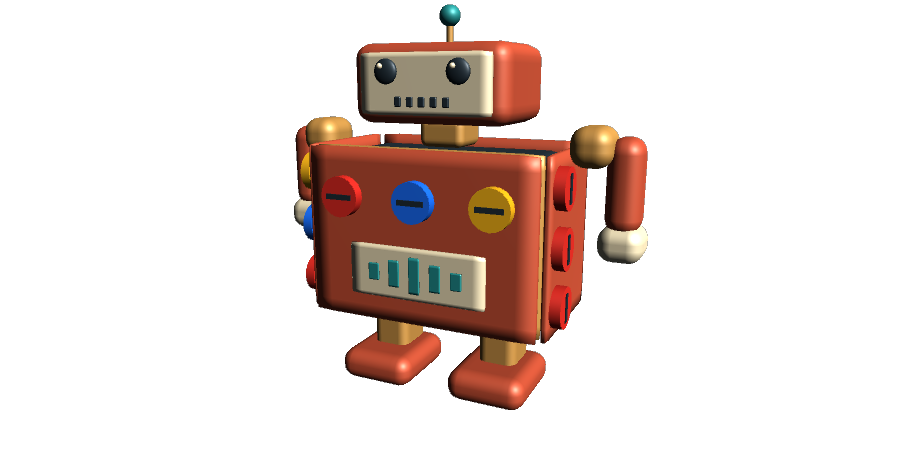
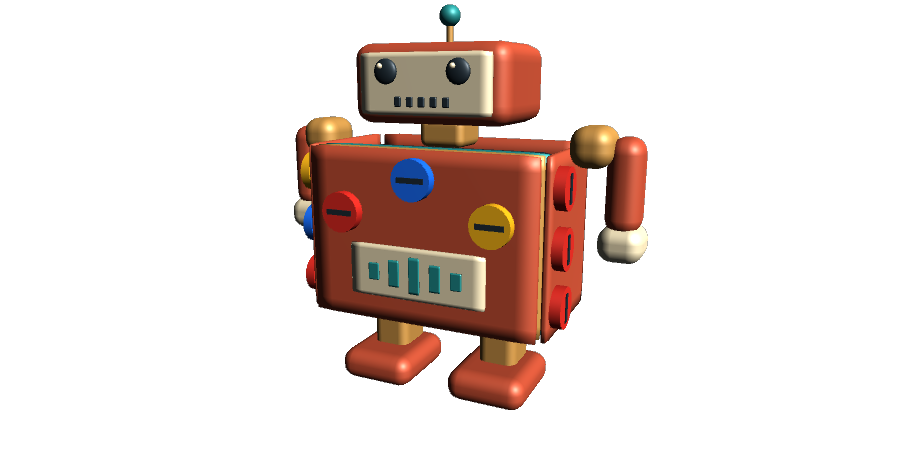
Add tested puzzle variety and deeper robot core layer

Changed region(s): [[0.3733, 0.3111, 0.6222, 0.56], [0.3422, 0.3733, 0.4044, 0.4978]]

diff --git a/Assets/Tests/EditMode/ToyRobot3DTests.cs b/Assets/Tests/EditMode/ToyRobot3DTests.cs
@@ -21,9 +21,11 @@ namespace ScrewPuzzle.Tests
             var input = Object.FindFirstObjectByType<Radio3DInteraction>();
             var puzzle = input.GetComponent<Radio3DPuzzle>();
             Assert.That(Object.FindFirstObjectByType<ToyRobot3DPrototypeBootstrap>(), Is.Not.Null);
-            Assert.That(input.TotalCount, Is.EqualTo(15));
+            Assert.That(input.TotalCount, Is.EqualTo(18));
             Quaternion initial = input.Radio.localRotation;
             var inner = GameObject.Find("Inner 0").GetComponent<Radio3DScrew>();
+            var core = GameObject.Find("Core 0").GetComponent<Radio3DScrew>();
+            Assert.That(puzzle.TryAdd(core), Is.False);
             var nose = GameObject.Find("Right 0").GetComponent<Radio3DScrew>();
             Vector3 noseScale = nose.transform.localScale;
             var targets = Object.FindObjectsByType<Radio3DScrew>(FindObjectsSortMode.None);
@@ -36,34 +38,36 @@ namespace ScrewPuzzle.Tests
                 Assert.That(input.PickScrew(input.View.WorldToScreenPoint(inner.transform.position)), Is.Not.EqualTo(inner));
             }
             foreach (string name in new[] { "Chest 0", "Back 0", "Left 0", "Chest 2", "Back 2", "Left 2",
-                "Chest 1", "Back 1", "Left 1", "Right 0", "Right 1", "Right 2", "Inner 0", "Inner 1", "Inner 2" })
+                "Chest 1", "Back 1", "Left 1", "Right 0", "Right 1", "Right 2", "Inner 0", "Inner 1", "Inner 2", "Core 0", "Core 1", "Core 2" })
             {
-                Vector3 normal = name.StartsWith("Chest") || name.StartsWith("Inner") ? Vector3.back :
+                Vector3 normal = name.StartsWith("Chest") || name.StartsWith("Inner") || name.StartsWith("Core") ? Vector3.back :
                     name.StartsWith("Back") ? Vector3.forward : name.StartsWith("Left") ? Vector3.left : Vector3.right;
                 input.Radio.rotation = Quaternion.FromToRotation(normal, Vector3.back);
                 Physics.SyncTransforms();
                 var screw = GameObject.Find(name).GetComponent<Radio3DScrew>();
                 Vector2 point = input.View.WorldToScreenPoint(screw.transform.position);
-                Assert.That(input.PickScrew(point), Is.EqualTo(screw), name + " must be reachable around the car geometry.");
+                Assert.That(input.PickScrew(point), Is.EqualTo(screw), name + " must be reachable around the robot geometry.");
                 input.BeginPointer(point);
                 input.EndPointer(point);
                 Assert.That(screw.IsRemoved, Is.True);
                 float deadline = Time.realtimeSinceStartup + 5f;
                 while (puzzle.IsBusy && Time.realtimeSinceStartup < deadline) yield return null;
                 Assert.That(puzzle.IsBusy, Is.False);
-                Assert.That(ThreeDBoardProgress.IsCompleted(ThreeDBoardProgress.ToyRobot), Is.EqualTo(name == "Inner 2"));
+                Assert.That(ThreeDBoardProgress.IsCompleted(ThreeDBoardProgress.ToyRobot), Is.EqualTo(name == "Core 2"));
                 Assert.That(puzzle.Trays[2].IsOpen, Is.False);
-                if (name == "Chest 1") Assert.That(inner.IsAccessible, Is.True);
+                if (name == "Chest 1") { Assert.That(inner.IsAccessible, Is.True); Assert.That(core.IsAccessible, Is.False); }
+                if (name == "Inner 2") { Assert.That(core.IsAccessible, Is.True); Assert.That(puzzle.State, Is.EqualTo(Radio3DPuzzle.PuzzleState.Playing)); }
                 if (name == "Right 2") Assert.That(puzzle.State, Is.EqualTo(Radio3DPuzzle.PuzzleState.Playing));
             }
             Assert.That(puzzle.State, Is.EqualTo(Radio3DPuzzle.PuzzleState.Won));
-            Assert.That(puzzle.ClearedCount, Is.EqualTo(15));
-            Assert.That(puzzle.ReleasedPlateCount, Is.EqualTo(5));
+            Assert.That(puzzle.ClearedCount, Is.EqualTo(18));
+            Assert.That(puzzle.ReleasedPlateCount, Is.EqualTo(6));
             input.ResetExperiment();
             Assert.That(input.Radio.localRotation, Is.EqualTo(initial));
             Assert.That(puzzle.RemovedCount, Is.Zero);
             Assert.That(puzzle.ReleasedPlateCount, Is.Zero);
             Assert.That(inner.IsAccessible, Is.False);
+            Assert.That(core.IsAccessible, Is.False);
             Assert.That(ThreeDBoardProgress.IsCompleted(ThreeDBoardProgress.ToyRobot), Is.True, "Restart must preserve completion.");
             Assert.That(nose.transform.localScale, Is.EqualTo(noseScale));
             foreach (var screw in targets)
@@ -76,6 +80,40 @@ namespace ScrewPuzzle.Tests
             yield return null;
             Assert.That(GameObject.Find("Toy Robot Completed"), Is.Not.Null);
             Assert.That(GameObject.Find("Start Toy Robot").GetComponentInChildren<UnityEngine.UI.Text>().text, Does.StartWith("REPLAY"));
+        }
+
+        [UnityTest]
+        public IEnumerator Restart_DuringInnerRelease_RelocksCoreAndRestoresQueue()
+        {
+            EditorSceneManager.OpenScene(ThreeDBoardNavigation.ToyRobot);
+            yield return new EnterPlayMode(); yield return null;
+            var input = Object.FindFirstObjectByType<Radio3DInteraction>();
+            var puzzle = input.GetComponent<Radio3DPuzzle>();
+            var innerPlate = GameObject.Find("Inner Assembly").GetComponent<Radio3DPlate>();
+            var core = GameObject.Find("Core 0").GetComponent<Radio3DScrew>();
+            foreach (string name in new[] { "Chest 0", "Back 0", "Left 0", "Chest 2", "Back 2", "Left 2", "Chest 1", "Back 1", "Left 1", "Right 0", "Right 1", "Right 2", "Inner 0", "Inner 1" })
+            {
+                Assert.That(puzzle.TryAdd(GameObject.Find(name).GetComponent<Radio3DScrew>()), Is.True);
+                float deadline = Time.realtimeSinceStartup + 8;
+                while (puzzle.IsBusy && Time.realtimeSinceStartup < deadline) yield return null;
+                Assert.That(puzzle.IsBusy, Is.False);
+            }
+            Assert.That(puzzle.TryAdd(GameObject.Find("Inner 2").GetComponent<Radio3DScrew>()), Is.True);
+            float releaseDeadline = Time.realtimeSinceStartup + 8;
+            while (!innerPlate.IsAnimating && Time.realtimeSinceStartup < releaseDeadline) yield return null;
+            Assert.That(innerPlate.IsAnimating, Is.True);
+            Assert.That(core.IsAccessible, Is.False);
+            input.ResetExperiment();
+            yield return null;
+            Assert.That(core.IsAccessible, Is.False);
+            Assert.That(innerPlate.IsReleased, Is.False);
+            Assert.That(innerPlate.gameObject.activeSelf, Is.True);
+            Assert.That(puzzle.RemovedCount, Is.Zero);
+            Assert.That(puzzle.TotalPlateCount, Is.EqualTo(6));
+            Assert.That(puzzle.Trays[0].Color, Is.EqualTo(ScrewColorId.Red));
+            Assert.That(puzzle.Trays[1].Color, Is.EqualTo(ScrewColorId.Blue));
+            foreach (var screw in Object.FindObjectsByType<Radio3DScrew>(FindObjectsSortMode.None))
+                Assert.That(screw.IsRemoved, Is.False);
         }
 
         [UnityTearDown]

diff --git a/Assets/Scripts/Prototype/ToyRobot3DPrototypeBootstrap.cs b/Assets/Scripts/Prototype/ToyRobot3DPrototypeBootstrap.cs
@@ -7,6 +7,7 @@ namespace ScrewPuzzle
     {
         protected override string BoardTitle => "THE TOY ROBOT WORKSHOP";
         protected override string BoardId => ThreeDBoardProgress.ToyRobot;
+        protected override ScrewColorId[] TraySequence => new[] { ScrewColorId.Red, ScrewColorId.Blue, ScrewColorId.Yellow, ScrewColorId.Red, ScrewColorId.Blue, ScrewColorId.Yellow };
         protected override float ModelVerticalOffset => 110f;
         protected override string WinTitle => "TOY ROBOT CLEARED!";
 
@@ -18,7 +19,7 @@ namespace ScrewPuzzle
             Material dark = Material(new Color(0.08f, 0.13f, 0.16f));
             Material brass = Material(new Color(0.78f, 0.54f, 0.22f));
             Material teal = Material(new Color(0.08f, 0.52f, 0.5f));
-            RoundedBody("Robot Chassis", radio, Vector3.zero, new Vector3(2.35f, 1.65f, 1.05f), 0.12f, dark);
+            RoundedBody("Robot Chassis", radio, Vector3.zero, new Vector3(2.35f, 1.65f, 0.65f), 0.12f, dark);
             RoundedBody("Neck", radio, new Vector3(0, 1.02f, 0), new Vector3(0.5f, 0.3f, 0.5f), 0.08f, brass);
             RoundedBody("Robot Head", radio, new Vector3(0, 1.52f, 0), new Vector3(1.7f, 0.8f, 1.15f), 0.16f, coral);
             RoundedBody("Face", radio, new Vector3(0, 1.52f, -0.59f), new Vector3(1.42f, 0.61f, 0.08f), 0.035f, cream);
@@ -36,39 +37,40 @@ namespace ScrewPuzzle
                 RoundedBody("Smile Grille", radio, new Vector3(i * 0.13f, 1.35f, -0.66f), new Vector3(0.07f, 0.10f, 0.03f), 0.014f, dark);
             Shape("Antenna", PrimitiveType.Cylinder, radio, new Vector3(0, 2.03f, 0), new Vector3(0.07f, 0.15f, 0.07f), brass);
             Shape("Antenna Tip", PrimitiveType.Sphere, radio, new Vector3(0, 2.2f, 0), Vector3.one * 0.22f, teal);
-            plates = new Radio3DPlate[5];
-            string[] names = { "Chest", "Back", "Left", "Right", "Inner" };
-            Vector3[] normals = { Vector3.back, Vector3.forward, Vector3.left, Vector3.right, Vector3.back };
-            for (int face = 0; face < 5; face++)
+            plates = new Radio3DPlate[6];
+            string[] names = { "Chest", "Back", "Left", "Right", "Inner", "Core" };
+            Vector3[] normals = { Vector3.back, Vector3.forward, Vector3.left, Vector3.right, Vector3.back, Vector3.back };
+            for (int face = 0; face < plates.Length; face++)
             {
                 plates[face] = new GameObject(names[face] + " Assembly").AddComponent<Radio3DPlate>();
                 plates[face].transform.SetParent(radio, false);
                 Vector3 pos = face == 0 ? new Vector3(0, 0, -0.75f) : face == 1 ? new Vector3(0, 0, 0.75f) :
-                    face == 2 ? new Vector3(-1.3f, 0, 0) : face == 3 ? new Vector3(1.3f, 0, 0) : new Vector3(0, 0, -0.62f);
+                    face == 2 ? new Vector3(-1.3f, 0, 0) : face == 3 ? new Vector3(1.3f, 0, 0) : new Vector3(0, 0, face == 4 ? -0.62f : -0.48f);
                 RoundedBody(names[face] + " Panel", plates[face].transform, pos,
-                    face == 2 || face == 3 ? new Vector3(0.08f, 1.8f, 1.4f) : new Vector3(2.5f, 1.8f, 0.08f), 0.035f, face == 4 ? brass : coral);
+                    face == 2 || face == 3 ? new Vector3(0.08f, 1.8f, 1.4f) : new Vector3(2.5f, 1.8f, 0.08f), 0.035f, face == 5 ? teal : face == 4 ? brass : coral);
             }
             RoundedBody("Chest Display", plates[0].transform, new Vector3(0, -0.35f, -0.81f), new Vector3(1.5f, 0.55f, 0.06f), 0.025f, cream);
             for (int i = -2; i <= 2; i++)
                 RoundedBody("Display Bar", plates[0].transform, new Vector3(i * 0.23f, -0.35f, -0.855f), new Vector3(0.12f, 0.18f + (2 - Mathf.Abs(i)) * 0.1f, 0.025f), 0.012f, teal);
-            RoundedBody("Inner Motor", radio, new Vector3(0, -0.25f, -0.55f), new Vector3(1.6f, 0.7f, 0.05f), 0.02f, teal);
+            RoundedBody("Core Badge", plates[5].transform, new Vector3(0, -0.4f, -0.535f), new Vector3(1.1f, 0.25f, 0.02f), 0.009f, cream);
+            RoundedBody("Inner Motor", radio, new Vector3(0, -0.25f, -0.35f), new Vector3(1.6f, 0.7f, 0.05f), 0.02f, teal);
             for (int i = -1; i <= 1; i++)
             {
-                Transform gear = Shape("Motor Gear", PrimitiveType.Cylinder, radio, new Vector3(i * 0.52f, -0.25f, -0.59f), new Vector3(0.38f, 0.025f, 0.38f), brass);
+                Transform gear = Shape("Motor Gear", PrimitiveType.Cylinder, radio, new Vector3(i * 0.52f, -0.25f, -0.39f), new Vector3(0.38f, 0.025f, 0.38f), brass);
                 gear.localRotation = Quaternion.Euler(90, 0, 0);
             }
             Material[] colors = { Material(new Color(0.9f, 0.12f, 0.08f)), Material(new Color(0.05f, 0.4f, 0.95f)), Material(new Color(1f, 0.7f, 0.04f)) };
             screws = new List<Radio3DScrew>();
-            for (int face = 0; face < 5; face++)
+            for (int face = 0; face < plates.Length; face++)
             {
                 var fasteners = new Radio3DScrew[3];
                 for (int i = 0; i < 3; i++)
                 {
-                    int color = face == 3 ? 0 : face == 4 ? 1 : i;
-                    Vector3 pos = face < 2 ? new Vector3((i - 1) * 0.82f, 0.4f, face == 0 ? -0.86f : 0.86f) :
-                        face < 4 ? new Vector3(face == 2 ? -1.40f : 1.40f, (i - 1) * 0.58f, -0.48f) : new Vector3((i - 1) * 0.82f, 0.4f, -0.69f);
+                    int color = face == 3 ? 0 : face == 4 ? 1 : face == 5 ? 2 : i;
+                    Vector3 pos = face < 2 ? new Vector3((i - 1) * 0.82f, i == 1 ? 0.62f : 0.24f, face == 0 ? -0.86f : 0.86f) :
+                        face < 4 ? new Vector3(face == 2 ? -1.40f : 1.40f, (i - 1) * 0.58f, -0.48f) : new Vector3((i - 1) * 0.82f, i == 1 ? 0.50f : 0.1f, face == 4 ? -0.69f : -0.55f);
                     fasteners[i] = Screw(names[face] + " " + i, radio, pos, normals[face], colors[color], dark);
-                    fasteners[i].Initialize((ScrewColorId)color, face == 4 ? plates[0] : null);
+                    fasteners[i].Initialize((ScrewColorId)color, face == 5 ? plates[4] : face == 4 ? plates[0] : null);
                     screws.Add(fasteners[i]);
                 }
                 plates[face].Configure(fasteners, normals[face]);

diff --git a/Assets/Scripts/Prototype/Radio3DPuzzle.cs b/Assets/Scripts/Prototype/Radio3DPuzzle.cs
@@ -31,6 +31,7 @@ namespace ScrewPuzzle
         private Radio3DScrew[] screws;
         private Radio3DPlate[] plates;
         private Radio3DFeedback feedback;
+        private ScrewColorId[] traySequence;
         public int TotalPlateCount { get { return plates.Length; } }
         public int ReleasedPlateCount
         {
@@ -42,11 +43,12 @@ namespace ScrewPuzzle
             }
         }
 
-        public void Configure(Camera camera, Radio3DScrew[] targets, Radio3DPlate[] panels)
+        public void Configure(Camera camera, Radio3DScrew[] targets, Radio3DPlate[] panels, ScrewColorId[] sequence = null)
         {
             view = camera;
             screws = targets;
             plates = panels;
+            traySequence = sequence == null ? new[] { ScrewColorId.Red, ScrewColorId.Blue, ScrewColorId.Yellow, ScrewColorId.Red, ScrewColorId.Blue } : (ScrewColorId[])sequence.Clone();
             feedback = gameObject.AddComponent<Radio3DFeedback>();
             Restart();
         }
@@ -145,12 +147,7 @@ namespace ScrewPuzzle
             StopAllCoroutines();
             if (feedback != null) feedback.Stop();
             jobs.Clear();
-            // Outer colors first, followed by the inner blue set; bonus trays remain optional.
-            jobs.Enqueue(ScrewColorId.Red);
-            jobs.Enqueue(ScrewColorId.Blue);
-            jobs.Enqueue(ScrewColorId.Yellow);
-            jobs.Enqueue(ScrewColorId.Red);
-            jobs.Enqueue(ScrewColorId.Blue);
+            foreach (ScrewColorId color in traySequence) jobs.Enqueue(color);
             for (int i = 0; i < Trays.Length; i++)
             {
                 Trays[i].IsOpen = i < 2;

diff --git a/Assets/Tests/EditMode/WorkshopCompletionTests.cs b/Assets/Tests/EditMode/WorkshopCompletionTests.cs
@@ -56,10 +56,12 @@ namespace ScrewPuzzle.Tests
                 scene == ThreeDBoardNavigation.ToyCar ? new[] { "Near", "Far", "Rear", "Nose", "Inner" } : new[] { "Chest", "Back", "Left", "Right", "Inner" };
             foreach (int color in new[] { 0, 2, 1 })
                 for (int face = 0; face < 3; face++)
-                    yield return Take(faces[face] + " " + color, puzzle);
+                    yield return Take(faces[face] + " " + (scene == ThreeDBoardNavigation.ToyCar ? (color - face + 3) % 3 : color), puzzle);
             for (int face = 3; face < 5; face++)
                 for (int screw = 0; screw < 3; screw++)
                     yield return Take(faces[face] + " " + screw, puzzle);
+            if (scene == ThreeDBoardNavigation.ToyRobot)
+                for (int screw = 0; screw < 3; screw++) yield return Take("Core " + screw, puzzle);
             Assert.That(puzzle.State, Is.EqualTo(Radio3DPuzzle.PuzzleState.Won));
         }
         private static IEnumerator Take(string name, Radio3DPuzzle puzzle)

diff --git a/Assets/Scripts/Prototype/Radio3DPrototypeBootstrap.cs b/Assets/Scripts/Prototype/Radio3DPrototypeBootstrap.cs
@@ -42,7 +42,7 @@ namespace ScrewPuzzle
 
             BuildModel(out Transform radio, out List<Radio3DScrew> screws, out Radio3DPlate[] plates);
             puzzle = gameObject.AddComponent<Radio3DPuzzle>();
-            puzzle.Configure(camera, screws.ToArray(), plates);
+            puzzle.Configure(camera, screws.ToArray(), plates, TraySequence);
             puzzle.Completed += () => ThreeDBoardProgress.MarkCompleted(BoardId);
             interaction = gameObject.AddComponent<Radio3DInteraction>();
             interaction.Configure(camera, radio, screws.ToArray());
@@ -53,6 +53,7 @@ namespace ScrewPuzzle
 
         protected virtual string BoardTitle => "THE RADIO WORKSHOP";
         protected virtual string BoardId => ThreeDBoardProgress.Radio;
+        protected virtual ScrewColorId[] TraySequence => null;
         protected virtual float ModelVerticalOffset => 180f;
         protected virtual string WinTitle => "RADIO CLEARED!";
 

diff --git a/Assets/Tests/EditMode/ToyCar3DTests.cs b/Assets/Tests/EditMode/ToyCar3DTests.cs
@@ -33,8 +33,8 @@ namespace ScrewPuzzle.Tests
                 Physics.SyncTransforms();
                 Assert.That(input.PickScrew(input.View.WorldToScreenPoint(inner.transform.position)), Is.Not.EqualTo(inner));
             }
-            foreach (string name in new[] { "Near 0", "Far 0", "Rear 0", "Near 2", "Far 2", "Rear 2",
-                "Near 1", "Far 1", "Rear 1", "Nose 0", "Nose 1", "Nose 2", "Inner 0", "Inner 1", "Inner 2" })
+            foreach (string name in new[] { "Near 0", "Far 2", "Rear 1", "Near 2", "Far 1", "Rear 0",
+                "Near 1", "Far 0", "Rear 2", "Nose 0", "Nose 1", "Nose 2", "Inner 0", "Inner 1", "Inner 2" })
             {
                 Vector3 normal = name.StartsWith("Near") || name.StartsWith("Inner") ? Vector3.back :
                     name.StartsWith("Far") ? Vector3.forward : name.StartsWith("Rear") ? Vector3.left : Vector3.right;

diff --git a/Assets/Scripts/Prototype/ToyCar3DPrototypeBootstrap.cs b/Assets/Scripts/Prototype/ToyCar3DPrototypeBootstrap.cs
@@ -86,8 +86,8 @@ namespace ScrewPuzzle
                 var fasteners = new Radio3DScrew[3];
                 for (int i = 0; i < 3; i++)
                 {
-                    int color = face == 3 ? 0 : face == 4 ? 1 : i;
-                    Vector3 position = face < 2 ? new Vector3((i - 1) * 1.15f, 0.14f, face == 0 ? -0.98f : 0.98f) :
+                    int color = face == 3 ? 0 : face == 4 ? 1 : (i + face) % 3;
+                    Vector3 position = face < 2 ? new Vector3((i - 1) * 1.15f, i == 1 ? 0.24f : 0.04f, face == 0 ? -0.98f : 0.98f) :
                         face < 4 ? new Vector3(face == 2 ? -2.16f : 2.16f, 0.02f, (i - 1) * 0.53f) :
                         new Vector3((i - 1) * 0.85f, 0.14f, -0.79f);
                     fasteners[i] = Screw(prefixes[face] + " " + i, radio, position, normals[face], colors[color], dark);

diff --git a/docs/WORKSHOP_PUZZLE_VARIETY.md b/docs/WORKSHOP_PUZZLE_VARIETY.md
@@ -1,0 +1,36 @@
+# Workshop puzzle variety
+
+The three toys now introduce different layouts:
+
+| Board | Screws / plates | Layout |
+| --- | --- | --- |
+| Radio | 15 / 5 | Introductory straight rows and one hidden plate |
+| Toy Car | 15 / 5 | Staggered side screws; colors change position across near, far and rear panels |
+| Toy Robot | 18 / 6 | Triangular chest patterns and a three-plate stack: coral chest, brass inner plate, teal core cover |
+
+The robot's core has three yellow screws and is locked until the brass plate has
+finished releasing. The underlying motor becomes visible after the core cover
+falls away. Each deeper layer sits physically behind the previous one. The head,
+limbs and original toy identity stay intact.
+
+Each board supplies its tray sequence to the shared puzzle. Radio and Car retain
+R/B/Y/R/B; Robot adds a final Y tray. Two free trays remain sufficient. Restart
+rebuilds the same queue and restores every covering plate. Completed-board records
+are retained; replaying the revised puzzles does not erase prior wins.
+
+## Device checks
+
+- Replay Toy Car: rotate and find the reordered colors; check every screw remains easy to tap.
+- Replay Robot using only the two free trays. Confirm the counter starts at 18 screws / 6 plates.
+- Remove the chest: only the brass layer's blue screws should be available.
+- Remove the brass layer: the teal core's yellow screws should become available.
+- The celebration must wait for the core's three screws and its plate release.
+- Restart while a deeper plate is moving and after winning. All 18 screws, six plates,
+  locked layers, and the tray queue must reset correctly.
+- Rebuild the combined Workshop APK and repeat on phone, including switching boards.
+
+User acceptance: the user reported all test scenarios passed successfully after being asked to test the revised Car and Robot on PC and a fresh phone build, including deeper layers and Restart during plate removal.
+
+Validation: nine selected project tests passed across two runs, plus two render helpers. Coverage includes raycast access to every car/robot screw, two-free-tray solves, the robot's core remaining locked through the inner plate animation, no early win, Restart during inner release, completed-board persistence, tutorial and completion navigation. Portrait and wide core-layer renders and refreshed car/robot thumbnails were visually inspected.
+
+![Robot core layer](art/Robot_Deep_Core_Preview.png)

diff --git a/docs/TOY_ROBOT_3D_EXPERIMENT.md b/docs/TOY_ROBOT_3D_EXPERIMENT.md
@@ -5,9 +5,9 @@ Build a fresh phone app with **Build 3D Workshop Android Test**. All experiment
 builds now include the selector and all three boards. Production 2D levels remain separate.
 
 The coral-and-cream robot has a face, antenna, arms and boots. Its chest, back,
-left side, right side and inner chest are five removable plates with 15 screws.
+left side, right side, inner chest and core cover are six removable plates with 18 screws.
 The chest display moves with its panel. Removing the chest exposes three blue
-inner screws; removing the inner plate reveals a motor with brass discs.
+inner screws; removing that brass plate reveals three yellow core screws. Removing the teal core cover reveals a motor with brass discs.
 The head and limbs remain on the chassis. Rotate horizontally to reach every side.
 
 The existing two free trays can clear the board. Completion is saved under its own
@@ -17,8 +17,8 @@ The menu shows two columns on portrait phones and three on wide displays.
 ## Device checks
 
 - Enter from the Toy Shop and rotate to all four sides; test taps and drags.
-- Clear all 15 screws using the two free trays. Confirm the inner screws are blocked
-  until the chest finishes releasing and all five panels release before winning.
+- Clear all 18 screws using the two free trays. Confirm the inner screws are blocked
+  until the chest finishes releasing and all six panels release before winning.
 - Restart during an animation and after a win; all screws and panels should return.
 - Return to the Toy Shop, switch boards, and confirm sound preference is preserved.
 - After winning, close/reopen the app and check COMPLETED / REPLAY for the robot.
@@ -29,3 +29,5 @@ Automated validation and manual acceptance are recorded with this milestone.
 ![Toy robot](art/ToyRobot3D_Preview.png)
 
 Validation: all 23 project tests passed, plus two render helpers (25 total). The robot test enters through its Toy Shop card, checks access from each side, hidden-layer gating, free-tray completion, five released panels, Restart, and saved completion on return. Portrait and wide previews were inspected. User acceptance (2026-10-03): the user reported all requested test scenarios passed successfully.
+
+The deeper-stack update has also passed user acceptance; the earlier acceptance above applies to the original five-plate version. See [puzzle variety](WORKSHOP_PUZZLE_VARIETY.md).

diff --git a/README.md b/README.md
@@ -156,3 +156,5 @@ The Workshop now includes Radio, Toy Car and Toy Robot, each with saved completi
 and replay. See [the toy robot test guide](docs/TOY_ROBOT_3D_EXPERIMENT.md).
 
 Use **Tools → ScrewPuzzle → Open 3D Workshop** to choose Radio, Toy Car or Toy Robot. All boards have a **BOARDS** button; each visit starts fresh. **Build 3D Workshop Android Test** creates one test app containing the selector and all three boards. See [the navigation test guide](docs/3D_WORKSHOP_NAVIGATION.md).
+
+Workshop puzzle variety: Radio provides the introductory layout; Toy Car uses staggered screws and reordered colors; Toy Robot has 18 screws and a deeper six-plate puzzle. See [the variety test guide](docs/WORKSHOP_PUZZLE_VARIETY.md).

diff --git a/docs/TOY_CAR_3D_EXPERIMENT.md b/docs/TOY_CAR_3D_EXPERIMENT.md
@@ -77,3 +77,5 @@ User acceptance (2026-10-01): the user reported that all test scenarios passed
 successfully after the toy car visual polish and the requested PC/phone checks.
 
 ![Polished toy car](art/ToyCar3D_Polished_Preview.png)
+
+Puzzle-variety follow-up: side screws now form staggered rows and the far/rear panels use different color positions. Counts remain 15 screws / five plates. See [puzzle variety](WORKSHOP_PUZZLE_VARIETY.md).
